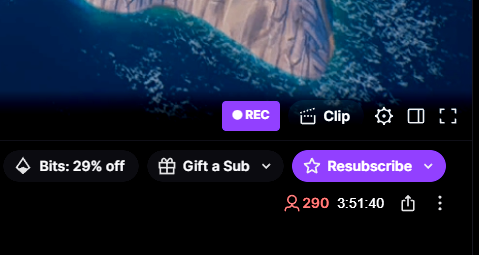
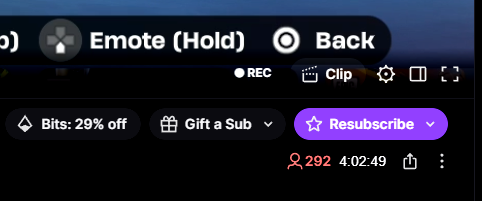
fix: remove purple background from REC button
Button now uses transparent background with subtle hover,
matching the style of native Twitch player controls.

Bump extension version to 1.0.1.

diff --git a/extension/content.js b/extension/content.js
@@ -25,7 +25,7 @@ function injectButton() {
   btn.textContent = '⏺ REC';
   btn.title = 'Start yt-dlp recording';
   btn.style.cssText = [
-    'background: #9147ff',
+    'background: transparent',
     'color: #fff',
     'border: none',
     'border-radius: 4px',
@@ -38,8 +38,8 @@ function injectButton() {
     'transition: background 0.15s',
   ].join(';');
 
-  btn.addEventListener('mouseenter', () => { btn.style.background = '#772ce8'; });
-  btn.addEventListener('mouseleave', () => { btn.style.background = '#9147ff'; });
+  btn.addEventListener('mouseenter', () => { btn.style.background = 'rgba(255,255,255,0.1)'; });
+  btn.addEventListener('mouseleave', () => { btn.style.background = 'transparent'; });
 
   btn.addEventListener('click', async () => {
     const url = window.location.href.split('?')[0];
@@ -62,7 +62,7 @@ function injectButton() {
 
     setTimeout(() => {
       btn.textContent = '⏺ REC';
-      btn.style.background = '#9147ff';
+      btn.style.background = 'transparent';
     }, 2500);
   });
 
